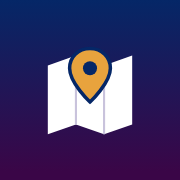
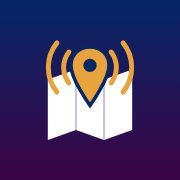
Rebrand to Beacon: lighting the way through the Terrain
Everything a leader sees now says Beacon: page titles, the menu header,
login and loading screens, home screen app names (Beacon and Beacon
Reference), help text, the AI prompts and the README. The app icon keeps
the map and pin and adds a beacon's signal around the pin; it is also the
favicon and the menu header icon now.

Code, project names, the repository and the web address keep the Topo
name, so links, installed apps and saved data carry on working.

Claude-Session: https://claude.ai/code/session_015mRLp29RKmPLuQrvmduhrB

Changed region(s): [[0.25, 0.2222, 0.75, 0.6111], [0.25, 0.6944, 0.75, 0.7778]]

diff --git a/Topo/wwwroot/index.html b/Topo/wwwroot/index.html
@@ -4,8 +4,8 @@
 <head>
     <meta charset="utf-8" />
     <meta name="viewport" content="width=device-width, initial-scale=1.0, maximum-scale=1.0, user-scalable=no" />
-    <title>Topo</title>
-    <link rel="icon" type="image/x-icon" href="G12-Map-icon-64.png"> <!--Icon from http://raindropmemory.deviantart.com/-->
+    <title>Beacon</title>
+    <link rel="icon" type="image/png" href="favicon-32.png">
     <base href="/" />
     <link href="css/bootstrap/bootstrap.min.css" rel="stylesheet" />
     <link href="css/app.css" rel="stylesheet" />
@@ -15,8 +15,8 @@
     <link href="lib/select2/select2.min.css" rel="stylesheet" />
     <script src="lib/select2/select2.min.js"></script>
     <script>
-        // Topo and Topo Reference install as two separate apps: the reference/ address gets the Reference app's
-        // name, icon and offline support, and every other address gets Topo's own
+        // Beacon and Beacon Reference install as two separate apps: the reference/ address gets the Reference app's
+        // name, icon and offline support, and every other address gets Beacon's own
         (function () {
             var base = new URL(document.baseURI).pathname;
             function add(tag, attributes) {
@@ -28,7 +28,7 @@
             if (!location.pathname.startsWith(base + "reference")) {
                 add("link", { rel: "manifest", href: "manifest.webmanifest" });
                 add("link", { rel: "apple-touch-icon", href: "apple-touch-icon.png" });
-                add("meta", { name: "apple-mobile-web-app-title", content: "Topo" });
+                add("meta", { name: "apple-mobile-web-app-title", content: "Beacon" });
                 add("meta", { name: "apple-mobile-web-app-capable", content: "yes" });
                 add("meta", { name: "mobile-web-app-capable", content: "yes" });
                 add("meta", { name: "theme-color", content: "#052767" });
@@ -36,10 +36,10 @@
                     navigator.serviceWorker.register(new URL("service-worker.js", document.baseURI), { scope: base });
                 return;
             }
-            document.title = "Topo Reference";
+            document.title = "Beacon Reference";
             add("link", { rel: "manifest", href: "reference/manifest.webmanifest" });
             add("link", { rel: "apple-touch-icon", href: "reference/apple-touch-icon.png" });
-            add("meta", { name: "apple-mobile-web-app-title", content: "Topo Reference" });
+            add("meta", { name: "apple-mobile-web-app-title", content: "Beacon Reference" });
             add("meta", { name: "apple-mobile-web-app-capable", content: "yes" });
             add("meta", { name: "mobile-web-app-capable", content: "yes" });
             add("meta", { name: "theme-color", content: "#052767" });
@@ -58,10 +58,10 @@
     <div id="app">
         <div class="mt-3 mb-3 row text-center">
             <p />
-            <h2>Topo, helping you navigate the Terrain</h2>
+            <h2>Beacon, lighting the way through the Terrain</h2>
             <p />
             <p />
-            <h4>Please wait while Topo loads</h4>
+            <h4>Please wait while Beacon loads</h4>
         </div>
     </div>
 
@@ -127,7 +127,7 @@
         return window.confirm(message);
     }
 
-    // True when the Topo Reference service worker is in control, so fetched files are kept for offline use
+    // True when the Beacon Reference service worker is in control, so fetched files are kept for offline use
     function topoOfflineSupported() {
         return !!(navigator.serviceWorker && navigator.serviceWorker.controller);
     }

diff --git a/Topo/wwwroot/service-worker.js b/Topo/wwwroot/service-worker.js
@@ -1,5 +1,5 @@
-// Service worker for the installed Topo app (Topo Reference has its own under reference/).
-// Network first so every release is picked up straight away. Only Topo's own files are kept,
+// Service worker for the installed Beacon app (Beacon Reference has its own under reference/).
+// Network first so every release is picked up straight away. Only Beacon's own files are kept,
 // never Terrain's data, so the app still opens without signal but no youth details are stored.
 const CACHE_PREFIX = "topo-app-";
 const CACHE = CACHE_PREFIX + "v1";
@@ -8,7 +8,7 @@ self.addEventListener("install", () => self.skipWaiting());
 
 self.addEventListener("activate", event => {
     event.waitUntil((async () => {
-        // Leave Topo Reference's cache alone
+        // Leave Beacon Reference's cache alone
         for (const key of await caches.keys()) {
             if (key.startsWith(CACHE_PREFIX) && key !== CACHE)
                 await caches.delete(key);

diff --git a/Topo/wwwroot/reference/service-worker.js b/Topo/wwwroot/reference/service-worker.js
@@ -1,4 +1,4 @@
-// Service worker for the installed Topo Reference app.
+// Service worker for the installed Beacon Reference app.
 // Network first so the app always picks up new releases and template changes,
 // falling back to the last copy seen so the reference still opens without signal.
 const CACHE_PREFIX = "topo-reference-";
@@ -9,7 +9,7 @@ self.addEventListener("install", () => self.skipWaiting());
 
 self.addEventListener("activate", event => {
     event.waitUntil((async () => {
-        // Leave the main Topo app's cache alone
+        // Leave the main Beacon app's cache alone
         for (const key of await caches.keys()) {
             if (key.startsWith(CACHE_PREFIX) && key !== CACHE)
                 await caches.delete(key);

diff --git a/Topo/Shared/OASReferenceView.razor.css b/Topo/Shared/OASReferenceView.razor.css
@@ -85,7 +85,7 @@
     }
 }
 
-/* Topo Reference app */
+/* Beacon Reference app */
 .app-top {
     position: sticky;
     top: 0;

diff --git a/Topo/Controller/OASReferenceController.cs b/Topo/Controller/OASReferenceController.cs
@@ -275,17 +275,17 @@ namespace Topo.Controller
         internal async Task ShareView()
         {
             var count = Results.Count;
-            await Share($"{count} OAS statement{(count == 1 ? "" : "s")} in Topo Reference", AppUrl(CurrentLink.ToQuery()));
+            await Share($"{count} OAS statement{(count == 1 ? "" : "s")} in Beacon Reference", AppUrl(CurrentLink.ToQuery()));
         }
 
         internal async Task ShareStarred()
         {
-            await Share(OASReference.ChecklistText(Results, "Starred OAS statements, from Topo Reference"), "");
+            await Share(OASReference.ChecklistText(Results, "Starred OAS statements, from Beacon Reference"), "");
         }
 
         private async Task Share(string text, string url)
         {
-            var result = await JS.InvokeAsync<string>("topoShare", "Topo Reference", text, url);
+            var result = await JS.InvokeAsync<string>("topoShare", "Beacon Reference", text, url);
             if (result == "copied")
                 await ShowToast(string.IsNullOrEmpty(url) ? "Copied to the clipboard" : "Link copied to the clipboard");
             else if (result == "failed")

diff --git a/Model/Insights/NightPromptBuilder.cs b/Model/Insights/NightPromptBuilder.cs
@@ -18,7 +18,7 @@ namespace Topo.Model.Insights
             leaderNotes = PromptPrivacy.ScrubNames(leaderNotes, report.MemberNames.Values);
             var sb = new StringBuilder();
 
-            sb.AppendLine($"I'm a Scouts Australia leader. Help me plan one {minutes} minute unit night for my {section} that ticks off as many outstanding {streams} requirements as possible. It doesn't need to cover everything, just one high value night. The facts below come from Terrain via Topo.");
+            sb.AppendLine($"I'm a Scouts Australia leader. Help me plan one {minutes} minute unit night for my {section} that ticks off as many outstanding {streams} requirements as possible. It doesn't need to cover everything, just one high value night. The facts below come from Terrain via Beacon.");
             sb.AppendLine();
 
             sb.AppendLine("## The unit");

diff --git a/Model/Insights/PlanPromptBuilder.cs b/Model/Insights/PlanPromptBuilder.cs
@@ -21,7 +21,7 @@ namespace Topo.Model.Insights
             var peakAward = insights.Rules.PeakAwardName;
             var sb = new StringBuilder();
 
-            sb.AppendLine($"I'm a Scouts Australia leader. Help me plan how {heading} can complete their outstanding achievements before they move up from {section}. The facts below come from Terrain via Topo.");
+            sb.AppendLine($"I'm a Scouts Australia leader. Help me plan how {heading} can complete their outstanding achievements before they move up from {section}. The facts below come from Terrain via Beacon.");
             sb.AppendLine();
 
             sb.AppendLine("## Timing");

diff --git a/README.md b/README.md
@@ -1,19 +1,28 @@
-# Topo-Blazor
+# Beacon
 
-Topo is a helper application to assist scout leaders in getting meaningful reports out of the Scouts Australia Terrain application.
+*Lighting the way through the Terrain.*
 
-Topo runs as a Blazor WebAssembly app in the browser and doesn't need to be installed.
+Beacon is a helper application to assist scout leaders in getting meaningful reports out of the Scouts Australia Terrain application.
 
-This is a fork of [NomisNostab/Topo-Blazor](https://github.com/NomisNostab/Topo-Blazor) that adds:
+Beacon runs as a Blazor WebAssembly app in the browser. It works on phones and can be added to the home screen as an app.
+
+Beacon is a fork of [NomisNostab/Topo-Blazor](https://github.com/NomisNostab/Topo-Blazor) (Topo), renamed, that adds:
 
 - **Insights**: unit OAS completion, the most common missing OAS requirements, priority youth (moving up soon plus focus youth) with weighted peak award progress, and programming help.
 - **Personal Progress insights**: what each youth is missing, recurring skill themes, and activity ideas for anything they're close to completing.
 - **Record OAS**: tick a youth's I statements and submit the stage for Unit Council review on their behalf.
+- **OAS Sign Off**: tick the same I statements for several youth at once, e.g. at the end of a unit night.
+- **Beacon Reference**: every OAS I statement with Terrain's full explanation, installable as its own app and usable offline.
 
 ## Installation
 ### Browser
-To run Topo just go to https://no5tyle.github.io/Topo-Blazor/ and it will download and start, be patient while it downloads.
+To run Beacon just go to https://no5tyle.github.io/Topo-Blazor/ and it will download and start, be patient while it downloads.
+
+### Phone
+Open the address above, then use "Add to Home Screen" (iPhone) or "Install app" (Android). Do the same from https://no5tyle.github.io/Topo-Blazor/reference/ to add Beacon Reference.
 
 ## Documentation
 
-The original project's [wiki](https://github.com/NomisNostab/Topo-Blazor/wiki) covers how to use Topo's standard features. The features added in this fork are described above.
+The original project's [wiki](https://github.com/NomisNostab/Topo-Blazor/wiki) covers how to use the standard features. The features added in this fork are described above.
+
+The code, project names and web address still use the original Topo name.
